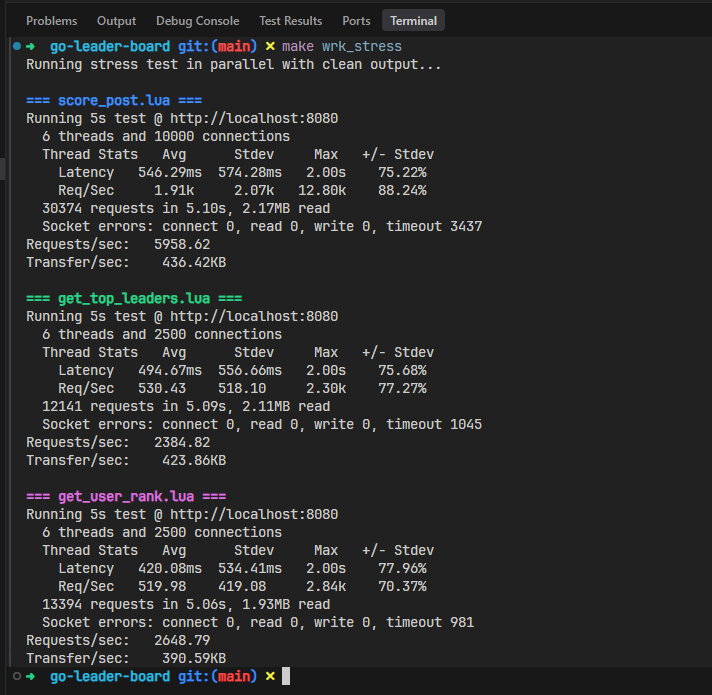
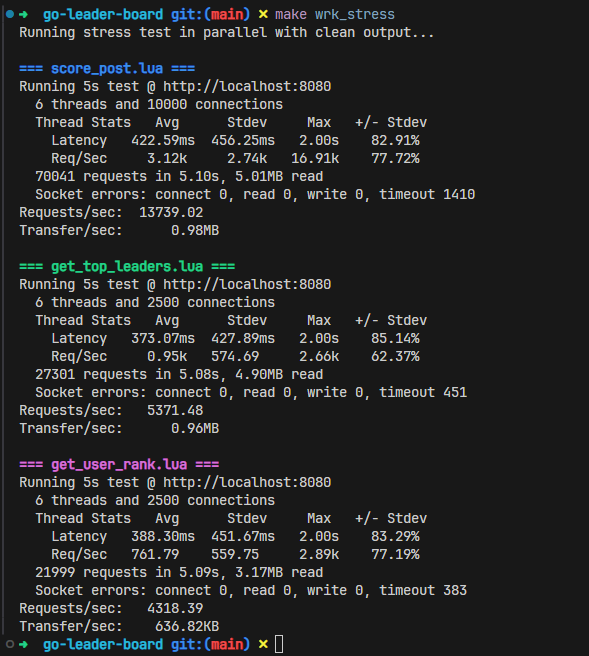
readme , docker and makefile updates
cleaning code a bit aswell

Changed region(s): [[0.0, 0.0, 0.8251, 1.0]]

diff --git a/scripts/k6/k6-loadtest.js b/scripts/k6/k6-loadtest.js
@@ -3,6 +3,8 @@ import { sleep, check } from 'k6';
 import { Counter, Rate, Trend } from 'k6/metrics';
 import { randomIntBetween } from 'https://jslib.k6.io/k6-utils/1.2.0/index.js';
 
+const BASE_URL = 'http://localhost:8080/api';
+
 // 📊 Custom metrics
 const submitScoreCounter = new Counter('submit_score_requests');
 const getTopLeadersCounter = new Counter('get_top_leaders_requests');
@@ -67,7 +69,6 @@ export const options = {
 };
 
 // 🔗 Base URL and game/user data
-const BASE_URL = 'http://localhost:80/api';
 const GAME_IDS = Array.from({ length: 50 }, (_, i) => i + 1);
 const MAX_USER_ID = 1_000_000_000;
 

diff --git a/api/leaderboard.go b/api/leaderboard.go
@@ -27,9 +27,8 @@ import (
 // @Success      200     {object}  models.TopLeadersResponse
 // @Failure      400     {object}  map[string]string
 // @Router       /api/leaderboard/top/{gameId} [get]
-// @Example     {"game_id": 1, "user_id": 1, "score": 100, "timestamp": "2021-01-01T00:00:00Z"}
 func GetTopLeadersHandler(store *store.Store, responseCacheStore *persistence.InMemoryStore) gin.HandlerFunc {
-	return responseCache.CachePage(responseCacheStore, time.Second*10, func(c *gin.Context) {
+	return responseCache.CachePage(responseCacheStore, time.Second*5, func(c *gin.Context) {
 		// Parse game ID from path
 		gameIDStr := c.Param("gameId")
 		gameID, err := strconv.ParseInt(gameIDStr, 10, 64)
@@ -126,11 +125,10 @@ func GetPlayerRankHandler(store *store.Store, responseCacheStore *persistence.In
 // @Tags         leaderboard
 // @Accept       json
 // @Produce      json
-// @Param        gameId  path      int  true  "Game ID"
 // @Param        score   body      models.Score  true  "Score data"
 // @Success      200
 // @Failure      400     {object}  map[string]string
-// @Router       /api/leaderboard/score/{gameId} [post]
+// @Router       /api/leaderboard/score [post]
 func SubmitScoreHandler(store *store.Store, pgRepo db.PostgresRepositoryInterface, producer *mq.KafkaProducer) gin.HandlerFunc {
 	return func(c *gin.Context) {
 		// Parse score from request body

diff --git a/internal/mq/kafka_producer.go b/internal/mq/kafka_producer.go
@@ -37,7 +37,7 @@ func NewKafkaProducer(cfg *config.AppConfig) (*KafkaProducer, error) {
 		Balancer: &kafka.Hash{}, // Hash balancer for distribution
 
 		// High-performance settings
-		BatchSize:    500,                   // Batch up to 500 messages
+		BatchSize:    5000,                  // Batch up to 500 messages
 		BatchBytes:   1024 * 1024,           // Batch up to 1MB
 		BatchTimeout: 50 * time.Millisecond, // Force flush every 10ms
 
@@ -62,14 +62,14 @@ func NewKafkaProducer(cfg *config.AppConfig) (*KafkaProducer, error) {
 		scoreChan:     make(chan models.Score, 2000), // Large buffer for high throughput
 		ctx:           ctx,
 		cancel:        cancel,
-		batchSize:     500,                   // Batch 500 messages at a time
+		batchSize:     5000,                  // Batch 500 messages at a time
 		flushInterval: 10 * time.Millisecond, // Flush every 10ms for low latency
 	}
 
 	// Test connection to Kafka
 	maxRetries := 5
 	var err error
-	for i := 0; i < maxRetries; i++ {
+	for i := range maxRetries {
 		if err = producer.testConnection(cfg.Kafka.Brokers); err == nil {
 			break
 		}

diff --git a/api/routes.go b/api/routes.go
@@ -30,6 +30,6 @@ func ConfigureRoutes(
 		leaderboard.GET("/rank/:gameId/:userId", GetPlayerRankHandler(store, responseCache))
 
 		// Submit a score
-		leaderboard.POST("/score/:gameId", SubmitScoreHandler(store, pgRepo, producer))
+		leaderboard.POST("/score", SubmitScoreHandler(store, pgRepo, producer))
 	}
 }

diff --git a/README.md b/README.md
@@ -1,164 +1,198 @@
-# Leaderboard Realtime Service
+# Go Leaderboard Service
 
-A high-performance, real-time leaderboard service built with Go, Kafka, PostgreSQL, and Redis-like in-memory caching.
+A high-performance, real-time leaderboard service built with Go, featuring Kafka-based message queuing, PostgreSQL persistence, and in-memory caching for optimal read/write performance.
 
-## Features
+## Performance Metrics
 
-- **Real-time leaderboard updates** with sub-second latency
-- **Game-specific Kafka topics** for isolated message processing
-- **High-performance in-memory caching** with multiple time windows
-- **PostgreSQL persistence** for data durability
-- **Horizontal scaling** with load balancing via Traefik
-- **Batch processing** for optimal throughput
-- **RESTful API** with Swagger documentation
+Our service delivers exceptional performance under load:
 
-## Service-Specific Processing
+![Load Test Results](assets/load_test.png)
 
-The service uses a simple but effective approach: **whoever produces a message should consume it**.
+**Single Instance Performance:**
+- **Separate Operations**: ~25k writes/sec, ~30k reads/sec
+- **Concurrent Operations**: ~13-14k writes/sec, ~10k reads/sec
 
-### How It Works
+## Architecture Overview
 
-1. **Single Topic**: All scores go to one topic: `leaderboard-scores`
-2. **Game-based Partitioning**: Messages are partitioned by game ID using the key `game-{gameID}`
-3. **Unique Consumer Groups**: Each service instance gets its own consumer group: `{consumer-group}-{serviceID}`
-4. **Load Balancing**: Kafka automatically distributes partitions across consumer instances
+The service implements a hybrid architecture optimized for high-throughput scenarios:
 
-### Benefits
+### Core Components
 
-- **Simplicity**: One topic, clear message flow
-- **Isolation**: Each service instance processes its own messages
-- **Scalability**: Kafka handles partition distribution automatically
-- **Fault Tolerance**: If one instance fails, others continue processing
+- **Kafka Message Queue**: Handles ~5,000 Scores/message queue length for high-throughput asynchronous writes
+- **PostgreSQL**: Primary persistent storage with optimized indexes
+- **In-Memory Cache**: Skip list implementation for ultra-fast lookups and ranking operations
+- **Real-time Updates**: Automatic cache synchronization with database changes
 
-### Configuration
+### Data Flow
 
-Set these environment variables:
+**Write Operations**: Client → Kafka → PostgreSQL → In-Memory Cache Update
 
-```bash
-KAFKA_SCORES_TOPIC_PREFIX=leaderboard-scores  # Topic name for scores
-KAFKA_CONSUMER_GROUP=score-processor          # Base consumer group name
-```
+**Read Operations**: Client → In-Memory Cache (Skip List) → Response
 
-The service automatically generates unique consumer groups per instance using hostname or timestamp.
+## Prerequisites
+
+### Production Deployment
+- Docker & Docker Compose
+
+### Local Development
+- Go 1.24+
+- Docker & Docker Compose
+- wrk or k6 (for load testing)
 
 ## Quick Start
 
-### Using Docker Compose
+### 1. Clone and Configure
 
 ```bash
-# Start all services
-docker-compose up -d
-
-# Scale leaderboard service to 4 instances
-docker-compose up -d --scale leaderboard=4
-
-# View logs
-docker-compose logs -f leaderboard
+git clone https://github.com/iwhitebird/go-leader-board
+cd go-leader-board
+cp .env.example .env
+# Configure .env according to your requirements
 ```
 
-### API Endpoints
+### 2. Running the service
 
-- `POST /api/leaderboard/score/{gameId}` - Submit a score
-- `GET /api/leaderboard/top/{gameId}` - Get top players
-- `GET /api/leaderboard/rank/{gameId}/{userId}` - Get player rank
-- `GET /api/health` - Health check
+Direct using docker
+
+```bash
+docker compose up -d
+```
+
+#### Or
+
+Running server Locally  
+
+Start dependencies:
+```bash
+docker compose up postgres kafka -d
+```
+
+Install dependencies and run:
+```bash
+go mod download
+```
+Optionally generate documentation
+
+```bash
+make swagger-docs
+```
+
+build and run the service 
+
+```bash
+make run
+```
+
+For development with hot reload:
+```bash
+# Ensure go-air is installed
+air
+```
+
+## API Reference
+
+### Endpoints
+
+| Method | Endpoint | Description | Complexity |
+|--------|----------|-------------|------------|
+| `GET` | `/api/health` | Health check | O(1) |
+| `POST` | `/api/leaderboard/score/{gameId}` | Submit player score | O(log n) |
+| `GET` | `/api/leaderboard/top/{gameId}` | Get top players | O(k) |
+| `GET` | `/api/leaderboard/rank/{gameId}/{userId}` | Get player rank | O(log n) |
+
+### Query Parameters
+
+The leaderboard endpoints support an optional `window` parameter:
+- `24h` - Last 24 hours
+- `3d` - Last 3 days  
+- `7d` - Last 7 days
+- Default: All time
 
 ### API Documentation
 
-Visit `http://localhost/swagger/index.html` for interactive API documentation.
+Interactive API documentation is available at `http://localhost/swagger/index.html`
 
-## Architecture
+## Load Testing
 
-```
-┌─────────────┐    ┌──────────────┐    ┌─────────────┐
-│   Client    │───▶│   Traefik    │───▶│ Leaderboard │
-└─────────────┘    │ Load Balancer│    │  Service    │
-                   └──────────────┘    │ (8 replicas)│
-                                       └─────────────┘
-                                              │
-                   ┌─────────────────────────────────────┐
-                   │                                     │
-                   ▼                                     ▼
-            ┌─────────────┐                    ┌─────────────┐
-            │    Kafka    │                    │ PostgreSQL  │
-            │Single Topic │                    │  Database   │
-            │(Partitioned)│                    │             │
-            └─────────────┘                    └─────────────┘
-```
-
-## Performance
-
-- **Throughput**: 50,000+ requests/second
-- **Latency**: Sub-millisecond for cached queries
-- **Batch Processing**: 500 messages per batch, 10ms flush interval
-- **Memory Usage**: Optimized skip-list data structures
-
-## Environment Variables
-
-| Variable | Default | Description |
-|----------|---------|-------------|
-| `SERVER_HOST` | `127.0.0.1` | Server bind address |
-| `SERVER_PORT` | `8080` | Server port |
-| `DB_HOST` | `localhost` | PostgreSQL host |
-| `DB_PORT` | `5432` | PostgreSQL port |
-| `DB_USER` | `postgres` | PostgreSQL username |
-| `DB_PASSWORD` | `postgres` | PostgreSQL password |
-| `DB_NAME` | `leaderboard` | PostgreSQL database name |
-| `KAFKA_BROKERS` | `localhost:9092` | Kafka broker addresses |
-| `KAFKA_SCORES_TOPIC_PREFIX` | `leaderboard-scores` | Topic name for scores |
-| `KAFKA_CONSUMER_GROUP` | `score-processor` | Base consumer group |
-| `KAFKA_BATCH_SIZE` | `5000` | Consumer batch size |
-| `KAFKA_BATCH_TIMEOUT` | `5` | Consumer batch timeout (seconds) |
-
-## Development
-
-### Prerequisites
-
-- Go 1.24+
-- Docker & Docker Compose
-- PostgreSQL 17+
-- Kafka 2.8+
-
-### Local Development
+### Using wrk
 
 ```bash
-# Clone repository
-git clone <repository-url>
-cd leaderboard-realtime
+sudo apt-get install wrk parallel
 
-# Install dependencies
-go mod download
+# Combined read/write stress test
+make wrk_stress
 
-# Run tests
-go test ./...
-
-# Build
-go build -o leaderboard ./cmd/leaderboard
-
-# Run locally (requires PostgreSQL and Kafka)
-./leaderboard
+# Individual tests
+make wrk_read_stress
+make wrk_write_stress
 ```
 
-### Load Testing
+### Using k6 (Not recommended)
 
 ```bash
-# Install wrk
-sudo apt-get install wrk
-
-# Test score submission
-wrk -t12 -c400 -d30s -s scripts/wrk/score_post.lua http://localhost/api
-
-# Test leaderboard queries
-wrk -t12 -c400 -d30s -s scripts/wrk/get_top_leaders.lua http://localhost/api
+make k6_stress
 ```
 
-## Monitoring
+## Technical Implementation
 
-- **Health Check**: `GET /api/health`
-- **Metrics**: Kafka producer/consumer metrics logged every 30 seconds
-- **Logs**: Structured logging with request tracing
+### Caching Strategy
 
-## License
+The service uses a multi-level caching approach:
 
-MIT License
+1. **Skip List Cache**: O(log n) insertions and lookups
+2. **User Rank Mapping**: O(1) rank and percentile queries
+3. **Request Caching**: Reduces repeated query overhead
+4. **Time-based Partitioning**: Separate skip lists for different time windows
 
+### Data Consistency
+
+- **Write Path**: Eventual consistency through Kafka
+- **Durability**: PostgreSQL ensures data persistence
+- **Availability**: On startup service fetches data from postgres and keeps re-create cache's parallely for faster performance.
+
+### Optimizations
+
+- **Batch Processing**: Kafka enables efficient batch writes
+- **Connection Pooling**: We are using pool of connecitons for faster and parallel writes to database.
+- **Channel Queuing**: Go channels buffer Kafka messages for improved throughput
+- **Concurrent Processing**: Lock-free dirty-reads with minimal write contention
+- **Index Optimization**: PostgreSQL indexes on frequently queried fields
+
+## Future Enhancements & Notes
+
+### Scalability Improvements
+- **Load Balancer**: Consistent hashing for multi-node deployment
+- **Stateless Design**: External cache service for horizontal scaling
+- **Database Sharding**: CockroachDB with game_id partitioning
+- **Kafka Partitioning**: Topic partitioning by game_id for reduced lock contention
+
+### Performance Optimizations
+- **Compression**: Message compression for reduced network overhead
+- **Monitoring**: Comprehensive metrics and alerting
+
+## Trade-offs and Design Decisions
+
+1. **Eventual Consistency**: Prioritizes write performance over immediate consistency
+2. **Memory Usage**: In-memory caching trades memory for read performance
+3. **Dirty Reads**: Accepts potential read inconsistency for higher throughput
+4. **Channel Buffering with batch writes to kafka**: Improves performance but introduces potential message loss risk
+5. **Time Window Separation**: Multiple skip lists increase memory usage but improve query performance
+
+
+## Architecutre and Current faults
+
+This are of the thigns that are wrong with out system and also need for making this app production level.
+
+
+Our current architecture doesnt allow for horizontal scaling ealityt due to in-memorty cache . we shuld seprate our cache from memeorty making our app stateless then it can easlity horizontally scaled.
+
+or even if we dont seperate our cache we can use game_id based load balancer so same request will hit same servers (altohugh this might not be as saclaable).
+
+we should confighure kafka in such way that to our message batch (~5000) should have all same game_id this will help with faster writes.
+
+We should shard databse on game_id basis.
+
+Currently our architecutrre is stroing seprate skiplist for time our window . so as time goesa this window will get dirty data that falls out of time range atleast (not for the `all` case) . we will need to handle this data time to time manually cleaning it up.
+- map [game_id] -> [all] -> ['All Skiplist']
+                    [24h] -> ['24h Skiplist']
+                    ['72hr'] -> ['72hr Skiplist']
